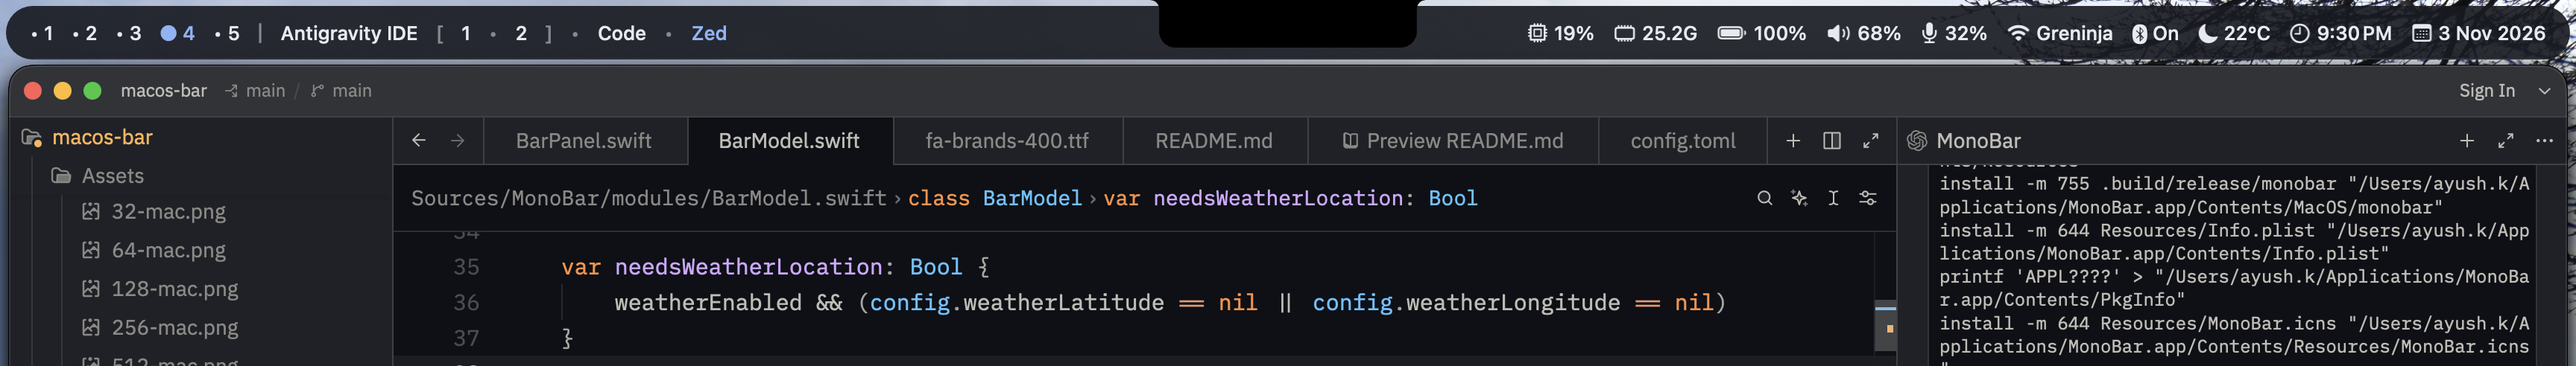
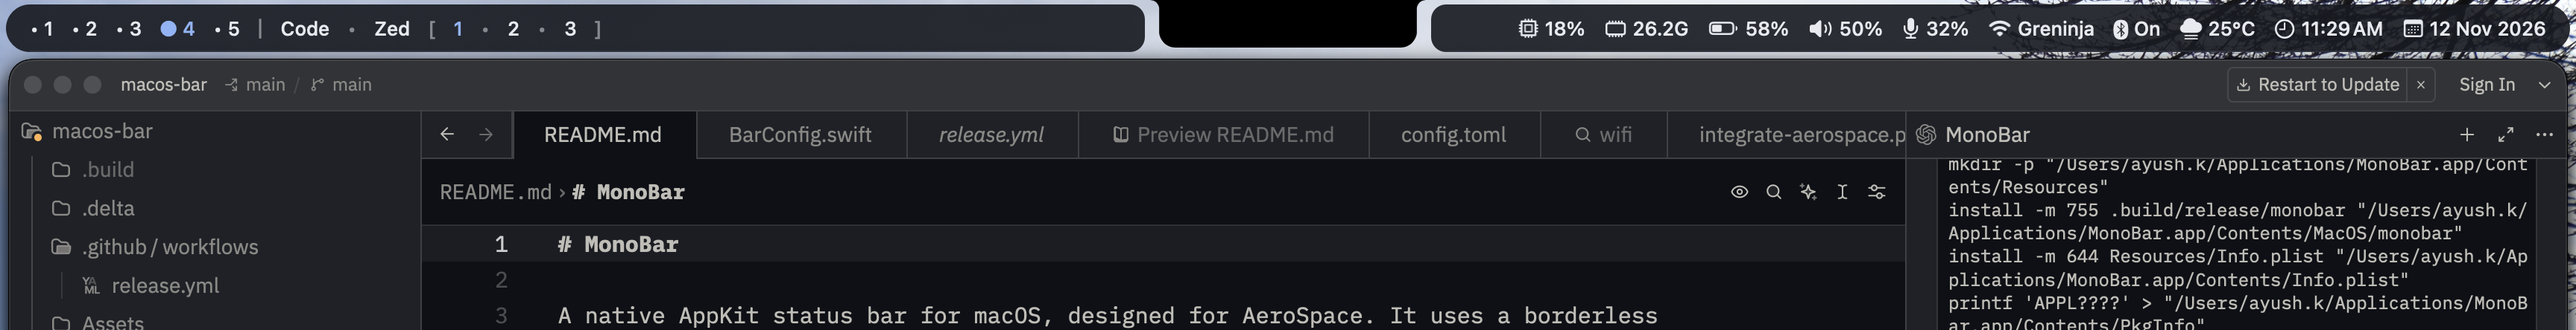
update readme with new screenshot

diff --git a/README.md b/README.md
@@ -1,4 +1,8 @@
-# MonoBar
+<p align="center">
+  <img src="Assets/512-mac.png" alt="MonoBar logo" width="128">
+</p>
+
+<h1 align="center">MonoBar</h1>
 
 A native AppKit status bar for macOS, designed for AeroSpace. It uses a borderless non-activating `NSPanel`, CoreGraphics text drawing, a small TOML configuration reader, and a Unix datagram socket for AeroSpace event callbacks.
 
